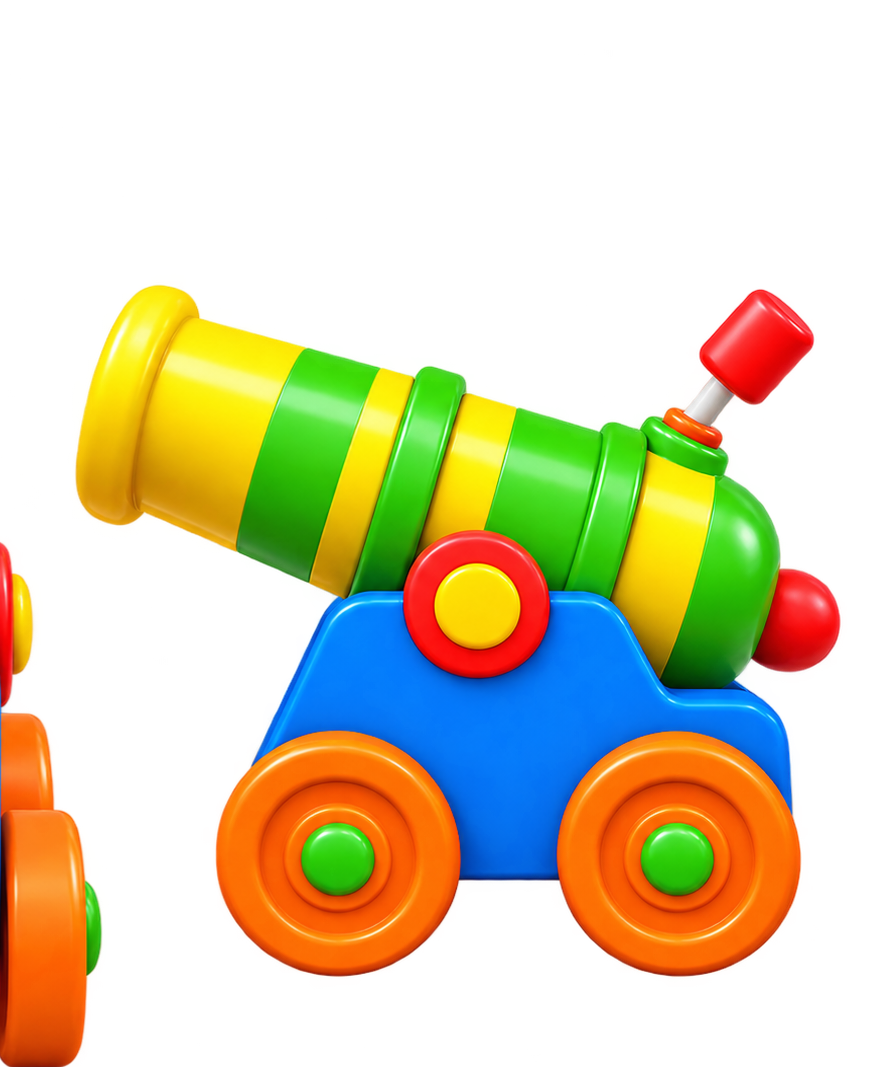
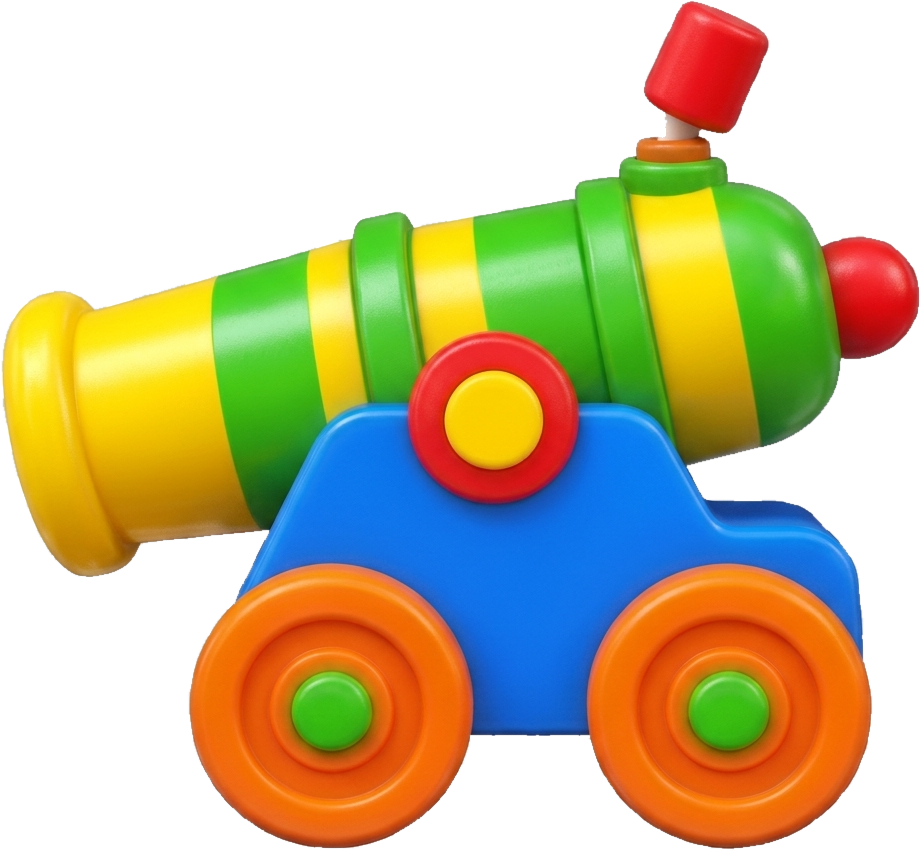
두더지팡 v298: 제일하단(a2 LOW) 대포 새 이미지로 교체
사용자가 제미나이로 배경 제거한 새 LOW 대포 제공(체크무늬가 픽셀로 구워져
있어 추출·투명화). cannon-a2-source.png 교체 → 검은 외곽선 처리.
POSES a2: ar 0.72→0.924, mu 0.07→0.08, mv 0.18→0.52 (새 이미지 포구 위치).

Claude-Session: https://claude.ai/code/session_01J5hEhYng5V7YnjsGoUQhbZ

diff --git a/mole/js/lane-cannon.js b/mole/js/lane-cannon.js
@@ -31,7 +31,7 @@
   //   a5(-120°) = 3 6   a4(-92°) = 오른쪽 내비열(거의 수직)
   // v293 에서 MZX 우측 0.3cm 이동에 맞춰 aim 재보정. a4(최대각포)만 dx 로 상쇄해 제자리 고정(사용자 요청).
   const POSES = [
-    { key: 'a2', src: 'assets/weapons/cannon-a2.png', w: 0.270, ar: 0.72, mu: 0.07, mv: 0.18, aim: -191, tweak: 0, dx: -0.06, dy: 0.03 },
+    { key: 'a2', src: 'assets/weapons/cannon-a2.png', w: 0.270, ar: 0.924, mu: 0.08, mv: 0.52, aim: -191, tweak: 0, dx: -0.06, dy: 0.03 },
     { key: 'a1', src: 'assets/weapons/cannon-a1.png', w: 0.280, ar: 0.833, mu: 0.07, mv: 0.14, aim: -164, tweak: 0, dx: -0.05, dy: 0.03, blx: -0.014 },
     { key: 'a3', src: 'assets/weapons/cannon-a3.png', w: 0.242, ar: 1.159, mu: 0.32, mv: 0.09, aim: -144, tweak: 0, dx: 0.004, dy: -0.006, blx: -0.029 },
     { key: 'a5', src: 'assets/weapons/cannon-a5.png', w: 0.225, ar: 1.256, mu: 0.17, mv: 0.09, aim: -120, tweak: 0, dx: -0.009, dy: -0.03 },

diff --git a/mole/index.html b/mole/index.html
@@ -171,7 +171,7 @@
       </div>
 
       <!-- 시작 UI = 카톡풍 대화 (폰 화면 = 보드 안) -->
-      <div id="build-tag" aria-hidden="true">v297</div>
+      <div id="build-tag" aria-hidden="true">v298</div>
       <div id="board-start" class="board-panel board-start">
 
         <!-- 첫 방문: 전체 인트로 대화 -->
@@ -566,7 +566,7 @@
       } else {
         // ?v= 로 매 배포마다 URL을 바꿔서 GitHub Pages의 sw.js 캐시(max-age=600)를 무조건 우회 —
         // 안 그러면 배포 직후에도 최대 10분간 옛 서비스워커가 안 갈리는 경우가 있었음(사용자 보고).
-        navigator.serviceWorker.register('sw.js?v=297').catch(function () {});
+        navigator.serviceWorker.register('sw.js?v=298').catch(function () {});
       }
     });
   }

diff --git a/mole/sw.js b/mole/sw.js
@@ -3,7 +3,7 @@
 // 폴백 전용으로만 갱신한다. (예전엔 stale-while-revalidate라 배포해도 "다음 실행"에야
 // 반영돼 사용자 체감 대기가 길었음 — 온라인=항상 최신, 오프라인=마지막 캐시로 변경.)
 // SHELL 목록 자체가 바뀔 때만 CACHE 를 올린다.
-const CACHE = 'mole-game-v297';
+const CACHE = 'mole-game-v298';
 
 // 화면별 BGM(audio/bgm-*.mp3)은 v275 부터 SHELL 에 포함 — 기본 켜짐(v272)이라 항상 필요하고,
 // 캐시가 안 돼 있으면 오프라인/느린망에서 재생 실패했음.
